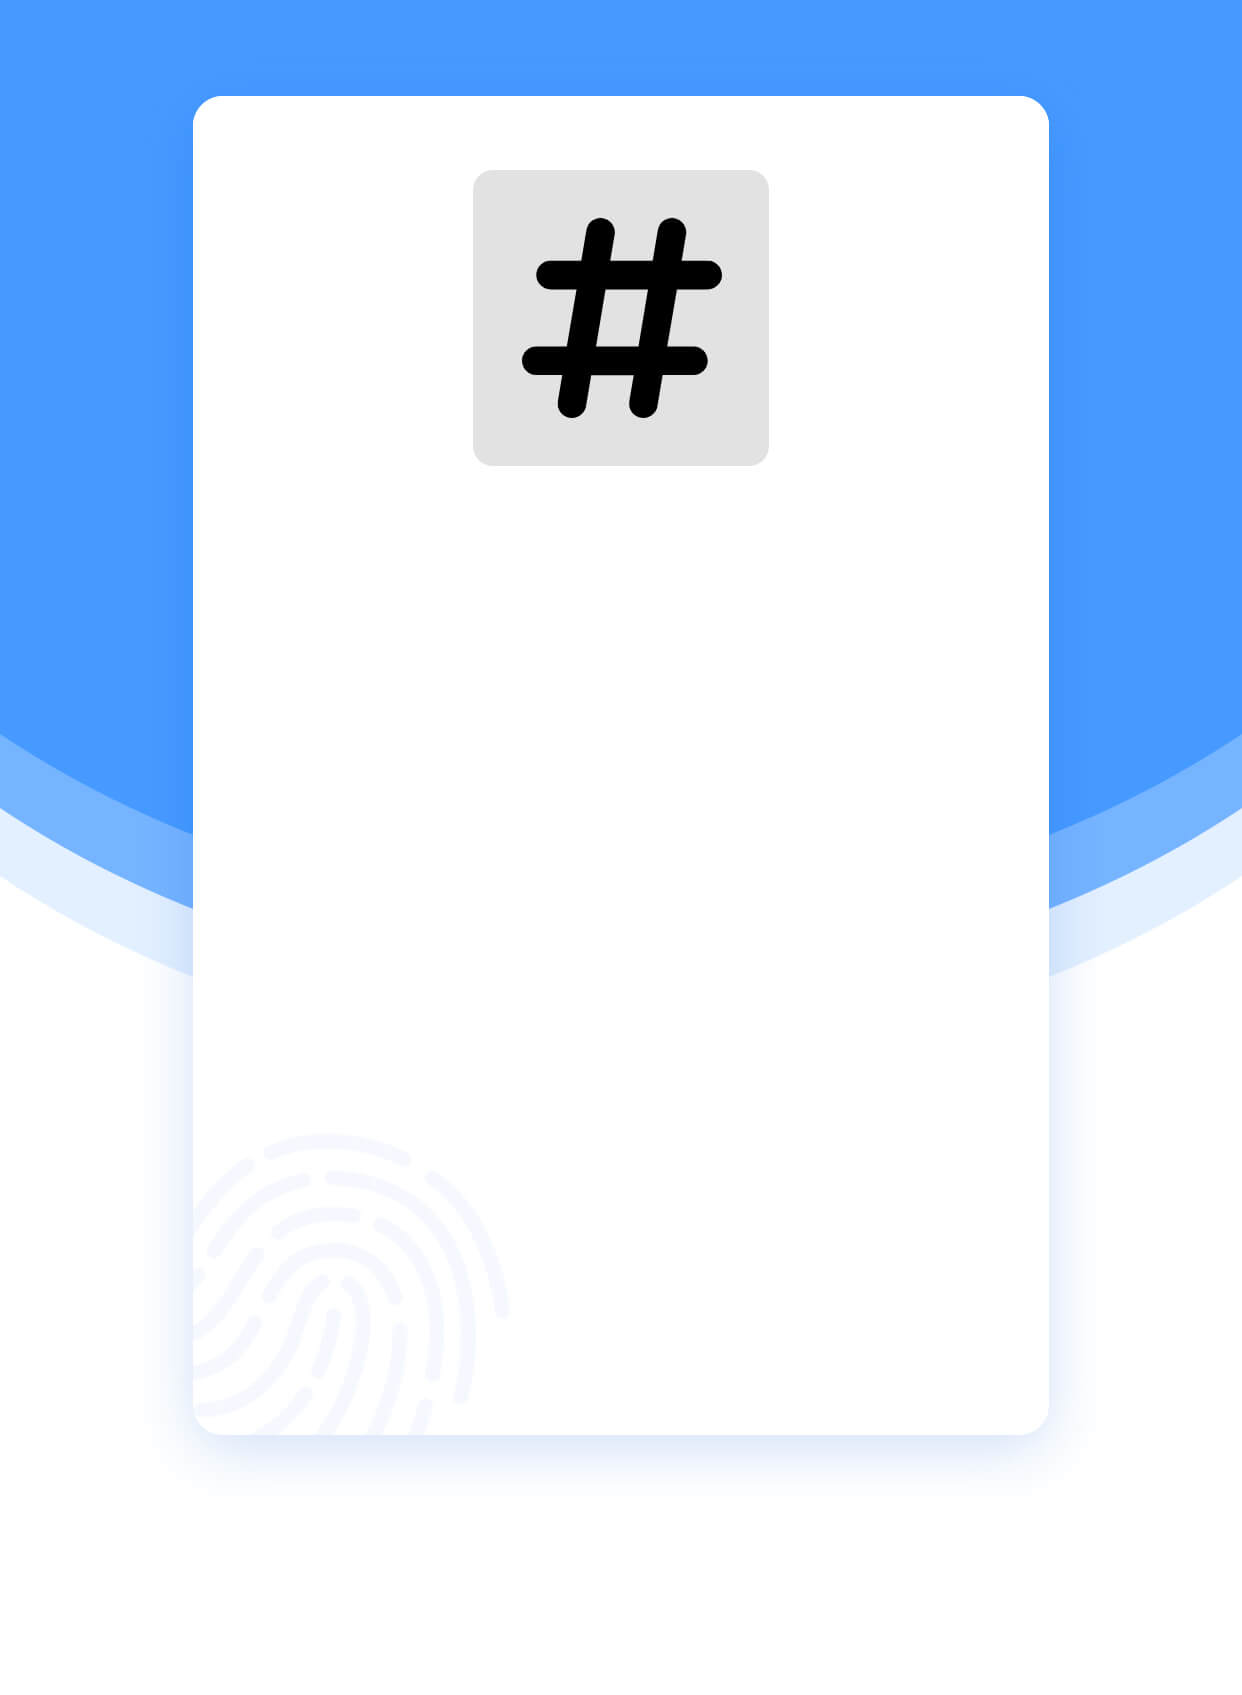
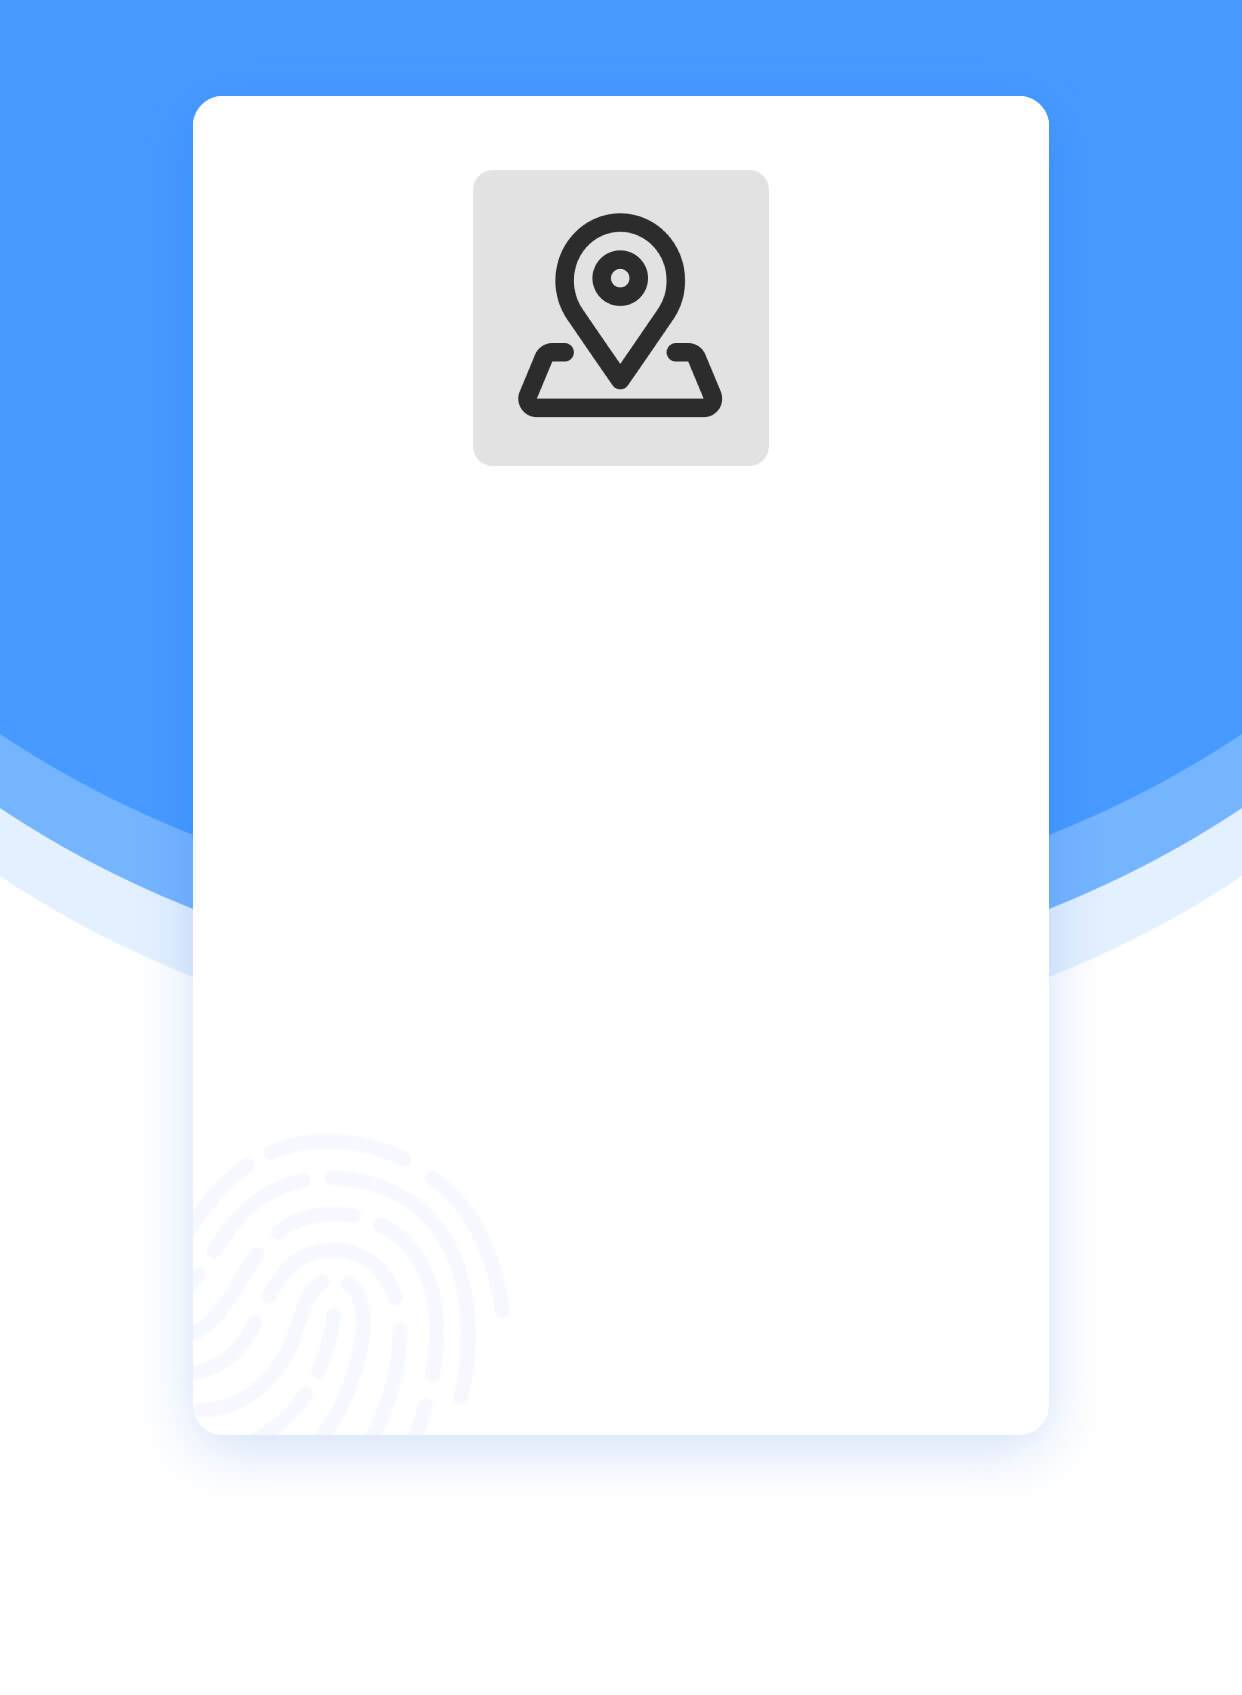
refactor(share-poster): background

Changed region(s): [[0.3977, 0.1227, 0.5813, 0.2454]]

diff --git a/SharePoster/app/Http/Controllers/AdminController.php b/SharePoster/app/Http/Controllers/AdminController.php
@@ -23,7 +23,7 @@ class AdminController extends Controller
 
         $background_url = '/assets/SharePoster/user.jpg';
 
-        if ($config['background_path']) {
+        if ($config['background_path'] ?? null) {
             $disk = Storage::disk('public');
 
             $background_url = $disk->url($config['background_path']);
@@ -40,7 +40,7 @@ class AdminController extends Controller
 
         $background_url = '/assets/SharePoster/group.jpg';
 
-        if ($config['background_path']) {
+        if ($config['background_path'] ?? null) {
             $disk = Storage::disk('public');
 
             $background_url = $disk->url($config['background_path']);
@@ -57,7 +57,7 @@ class AdminController extends Controller
 
         $background_url = '/assets/SharePoster/hashtag.jpg';
 
-        if ($config['background_path']) {
+        if ($config['background_path'] ?? null) {
             $disk = Storage::disk('public');
 
             $background_url = $disk->url($config['background_path']);
@@ -74,7 +74,7 @@ class AdminController extends Controller
 
         $background_url = '/assets/SharePoster/geotag.jpg';
 
-        if ($config['background_path']) {
+        if ($config['background_path'] ?? null) {
             $disk = Storage::disk('public');
 
             $background_url = $disk->url($config['background_path']);
@@ -91,7 +91,7 @@ class AdminController extends Controller
 
         $background_url = '/assets/SharePoster/post.jpg';
 
-        if ($config['background_path']) {
+        if ($config['background_path'] ?? null) {
             $disk = Storage::disk('public');
 
             $background_url = $disk->url($config['background_path']);
@@ -108,7 +108,7 @@ class AdminController extends Controller
 
         $background_url = '/assets/SharePoster/comment.jpg';
 
-        if ($config['background_path']) {
+        if ($config['background_path'] ?? null) {
             $disk = Storage::disk('public');
 
             $background_url = $disk->url($config['background_path']);
